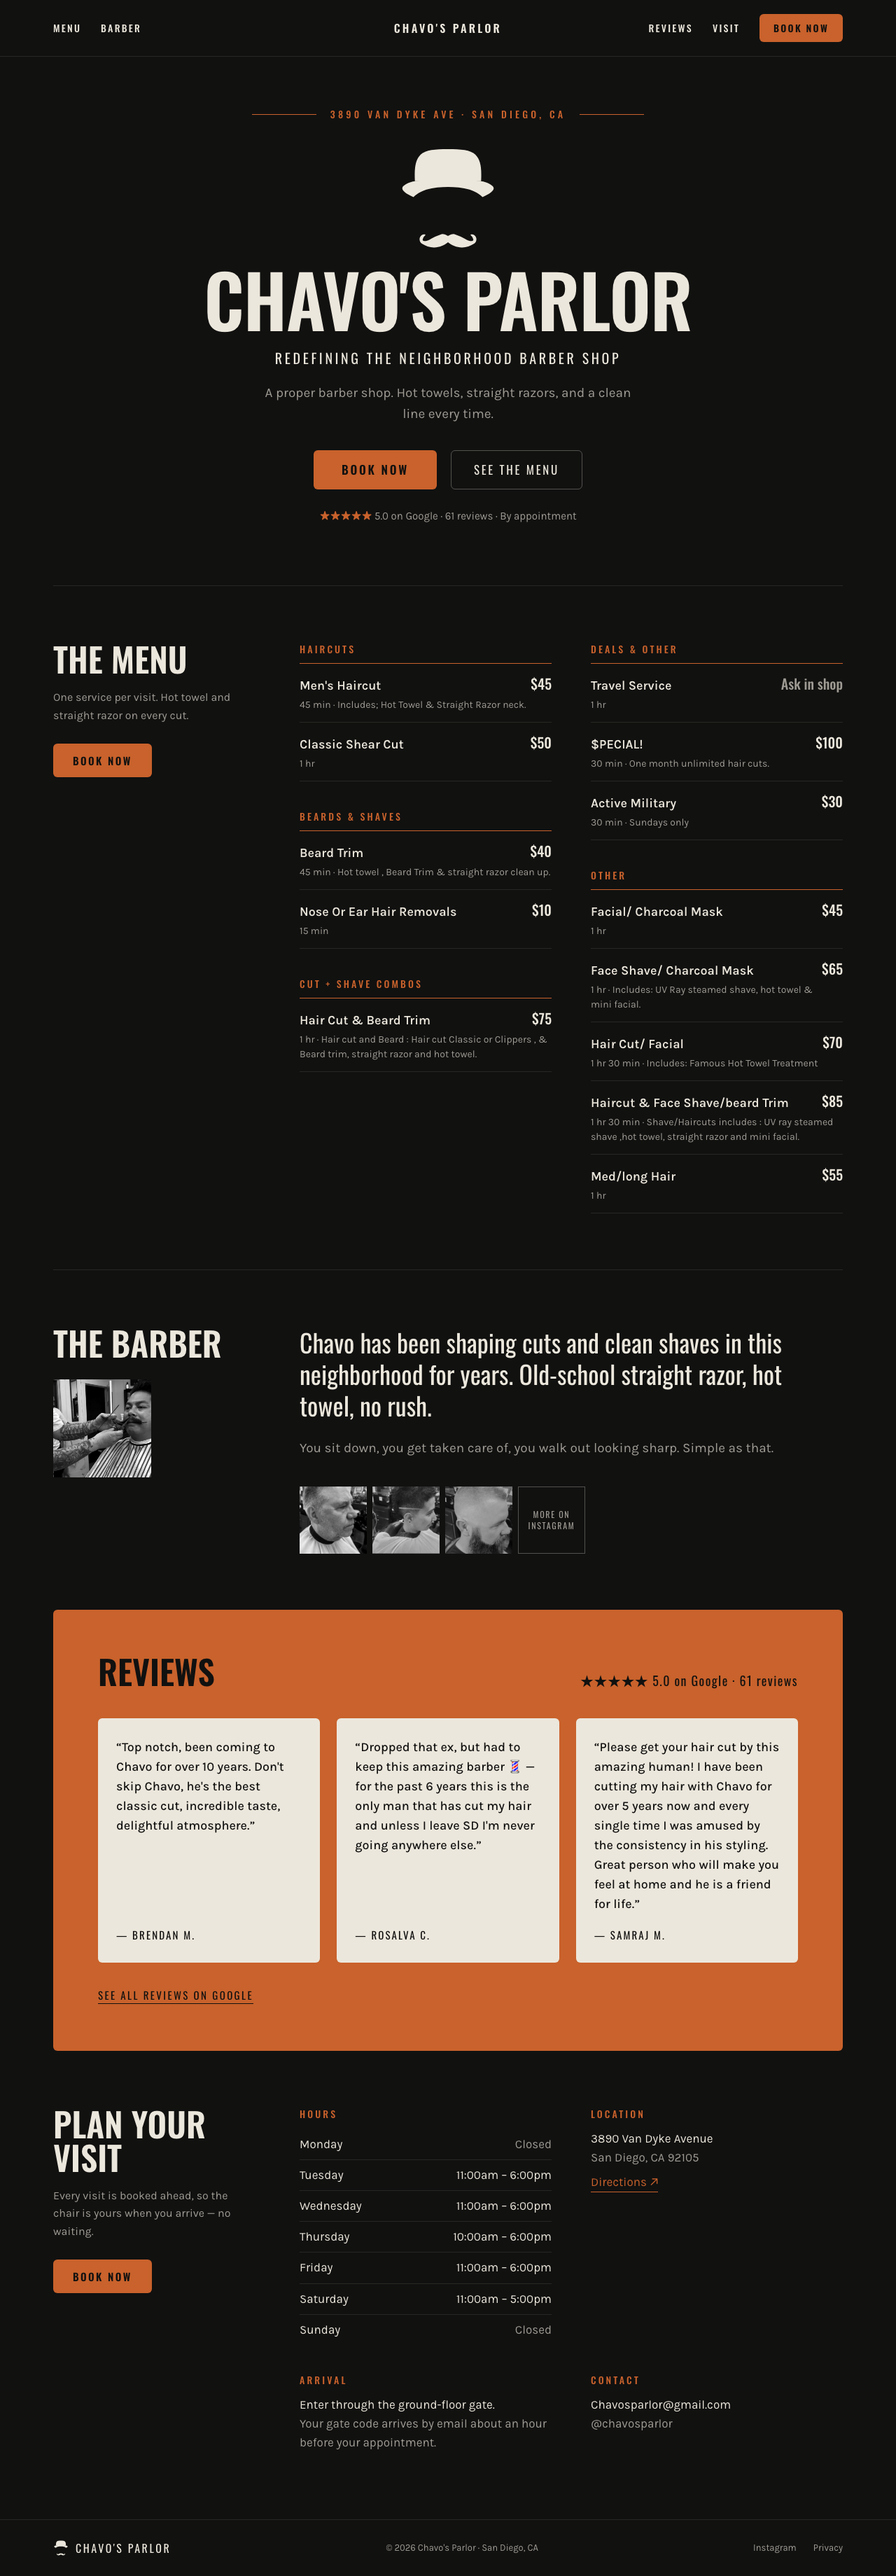
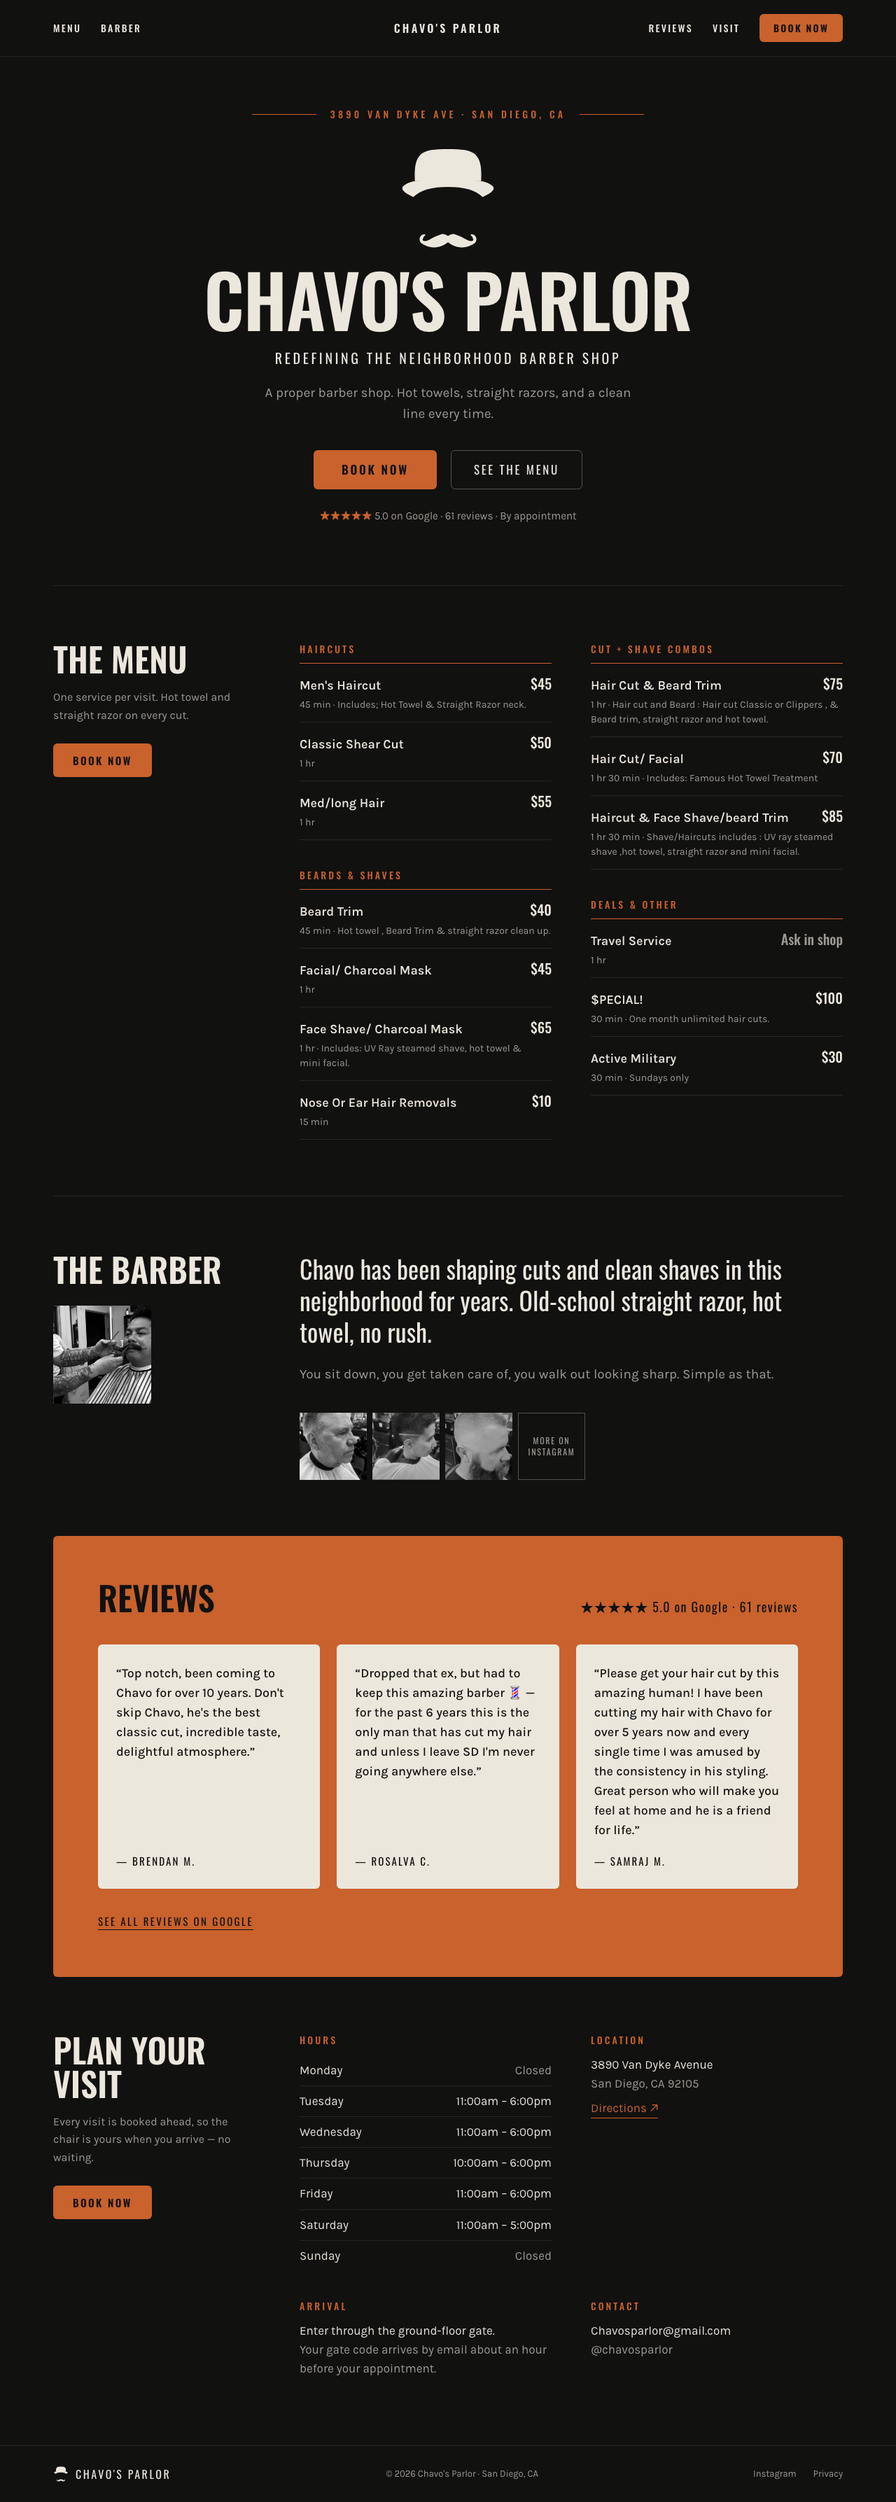
docs(portfolio): use accepted current release evidence

diff --git a/docs/launch-content/chavos-parlor.md b/docs/launch-content/chavos-parlor.md
@@ -1,7 +1,7 @@
 # Chavo’s Parlor — case study for editorial review
 
 Draft for Ken’s review. The simplified architecture and regular-hours sync are live;
-the barber repository’s October 23 release record records actual Production acceptance
+the barber repository’s October 26 release record records actual Production acceptance
 and limits. On October 26, 2026, Ken confirmed that Chavo has already approved
 the photos and reviews discussed for the site and portfolio. This draft remains
 subject to Ken's editorial review.
@@ -49,14 +49,7 @@ hosted fallback. It did not submit an appointment or payment.
 
 ### Delivery status
 
-The simplified integration launched October 21, 2026 at
-[chavosparlor.com](https://chavosparlor.com/). The latest accepted application,
-`b91afe2`, added regular location-hours sync on October 23.
-On October 26, the canonical domain still resolved to that accepted deployment.
-Follow-up stale-hours and service-grouping fixes are merged at `8e2fbd7`; their
-staged candidate passed focused health, browser and recovery checks on October 26, but public promotion and canonical acceptance remain pending.
-The custom booking/payment experiment is retired in Git history at `b96f939`,
-not maintained behind a feature flag.
+The simplified integration launched October 21, 2026 at [chavosparlor.com](https://chavosparlor.com/). Regular location-hours sync was accepted October 23. Latest accepted application `8e2fbd7` released the stale-hours and service-grouping fixes October 26 after staged recovery and canonical acceptance passed. The custom booking/payment experiment is retired in Git history at `b96f939`, not maintained behind a feature flag.
 
 The real catalog, private snapshot, isolated recovery rehearsal, widget/fallback,
 and Production health checks passed. The project demonstrates a
@@ -65,9 +58,9 @@ it does not yet establish an increase in bookings, revenue, or conversion rate.
 
 ## Screenshot and evidence notes for the revamp
 
-Use `src/assets/chavos-parlor/production-desktop.png` for the cover and `production-mobile.png` for a phone view. Both are real accepted Production captures from October 21, 2026, before regular-hours sync. Keep that date visible in captions; the cover may show a crop, and a full screenshot should remain inspectable. The asset README records exact source, revision and consent limits.
+Use `src/assets/chavos-parlor/production-desktop.png` for the cover and `production-mobile.png` for a phone view. Both are real accepted Production captures from October 26, 2026, after the latest release. Keep that date visible in captions; the cover may show a crop, and a full screenshot should remain inspectable. The asset README records exact source, revision and consent limits.
 
-Canonical supporting records live in `/Users/kennethrathbun/Documents/projects/barber-shop/docs/`: `release-2026-10-21.md`, `release-2026-10-23.md`, `client-handoff.md`, `production-rollout.md`, and `release-plan-2026-10-26.md`. Those records separate tests with documented stand-ins from actual deployed acceptance. The October 26 candidate record adds focused staged evidence; no public release acceptance is asserted here.
+Canonical supporting records live in `/Users/kennethrathbun/Documents/projects/barber-shop/docs/`: `release-2026-10-21.md`, `release-2026-10-23.md`, `client-handoff.md`, `production-rollout.md`, `release-plan-2026-10-26.md`, and `release-2026-10-26.md`. Those records separate tests with documented stand-ins from actual deployed acceptance. The October 26 public release record documents the completed canonical acceptance.
 
 ## How this supports a freelance offering
 

diff --git a/src/assets/chavos-parlor/README.md b/src/assets/chavos-parlor/README.md
@@ -1,9 +1,9 @@
 # Chavo's Parlor media provenance
 
-`production-desktop.png` and `production-mobile.png` are byte-for-byte copies of the barber repository's `docs/evidence/2026-10-21/desktop.png` and `mobile.png`.
+`production-desktop.png` and `production-mobile.png` are byte-for-byte copies of the barber repository's `docs/evidence/2026-10-26/public-1280.png` and `public-390.png`.
 
-Origin: https://chavosparlor.com/; October 21, 2026 approximately 21:56 UTC; application `2b61a7d8ff48e2aa8f4912774f440b6717577ec2`, accepted deployment `dpl_DvwEJuqtBPFrZHJi6ixo43seTQpD`. Desktop viewport 1280 × 900; phone 390 × 844. Real public catalog, approved media, no injected test menu, no booking/payment submitted. They predate the October 23 hours-sync release. The cover crops the desktop capture in CSS; the source file remains complete.
+Origin: https://chavosparlor.com/; October 26, 2026 approximately 20:46 UTC / 13:46 PDT; accepted application `8e2fbd782503ef4d9e7b16b8c7e681af06a2fc60`, deployment `dpl_B3HwBM7CuNZa8Ys6ieZoqCoNTNFv`. Desktop viewport 1280 × 900; phone 390 × 900. Real public catalog/current hours, approved media, no injected test menu, no booking/payment submitted. Source files remain complete; any future cover crop needs the capture date and provenance.
 
 Kenneth confirmed October 26 that Chavo approved the photos/reviews discussed for the site and portfolio. Kenneth's editorial and publication approval remains separate.
 
-Older hero/services/gallery/booking-widget and wizard images are retained as existing assets but no longer imported into the current case study. Their historical appearance must not imply that retired custom booking/payment features are active. No business-result or testimonial claim follows from any capture.
+Older hero/services/gallery/booking-widget and wizard images are retained as existing assets but must not imply that retired custom booking/payment features are active. No business-result or testimonial claim follows from a capture.
